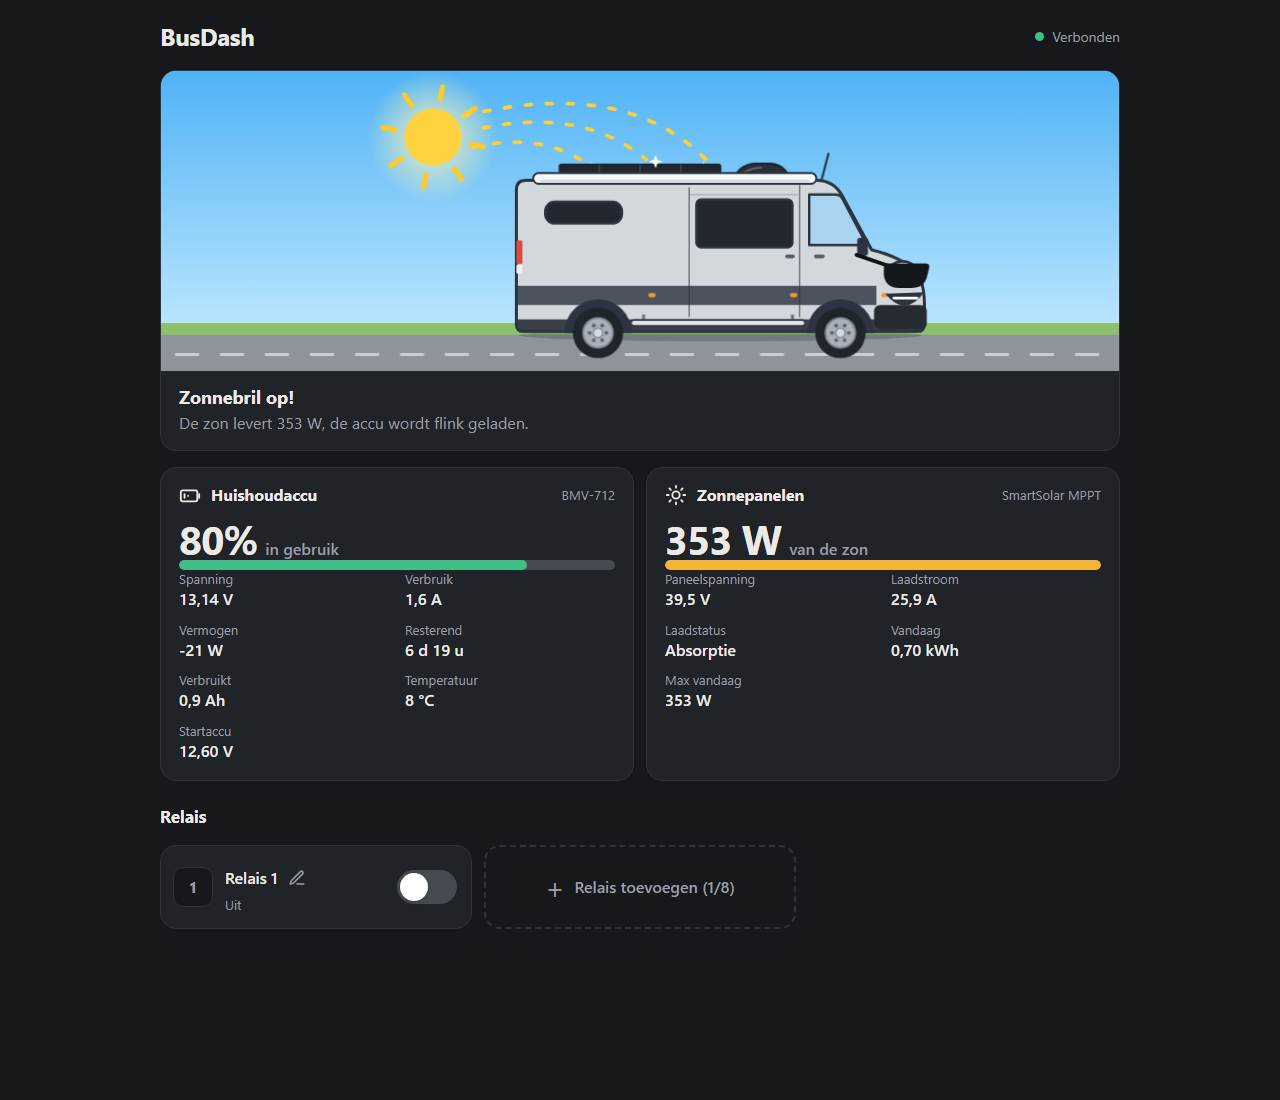
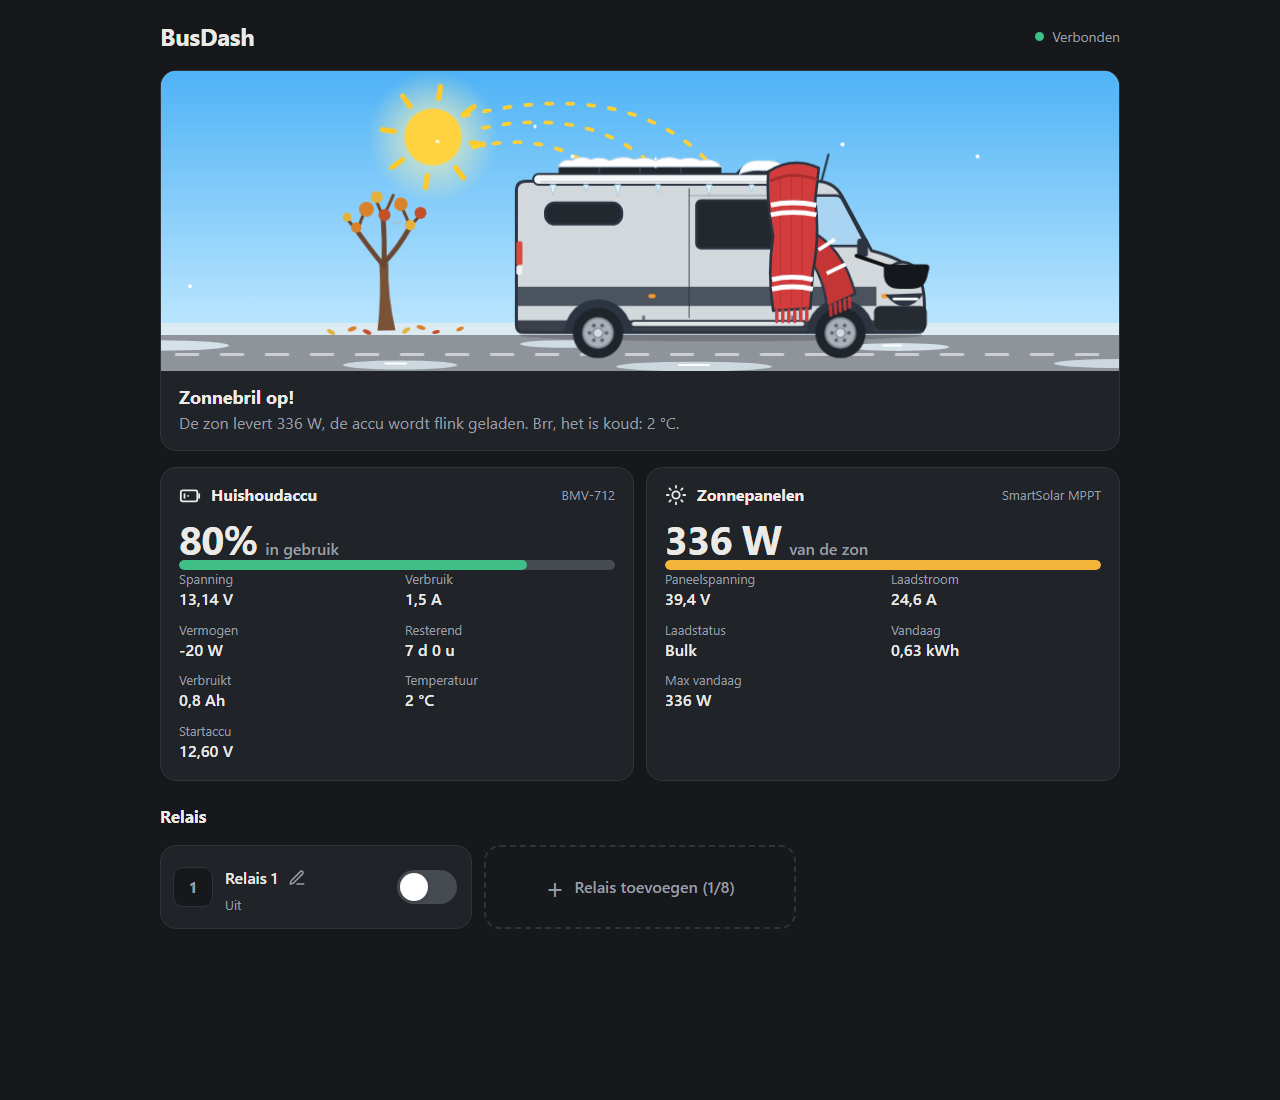
Bus krijgt het koud onder 3 °C en een boompje toont het seizoen
- Onder 3 °C (terug boven 4 °C): dikke sjaal over het dak, sneeuw, ijspegels, ijs op de weg en rillen.
- Boompje naast de bus: kaal, jong blad, volle kroon of vallend blad, naar de datum.
- Demo-parameters ?seizoen= en ?temp= in de adresbalk.
- Gesimuleerde temperatuur loopt mee met de versnelde dag.

diff --git a/src/main/resources/dashboard/index.html b/src/main/resources/dashboard/index.html
@@ -94,6 +94,44 @@
   .scene .grass { fill: #8cc06a; transition: fill .8s; }
   .scene[data-mood="sleeping"] .grass { fill: #2f4a3a; }
 
+  /* kou (onder 3 °C): ijs op de grond, sneeuw, ijspegels en een sjaal */
+  .scene .cold { opacity: 0; transition: opacity 1s ease; }
+  .scene[data-cold="true"] .cold { opacity: 1; }
+  .scene[data-cold="true"] .grass { fill: #dcebf2; }
+  .scene[data-cold="true"][data-mood="sleeping"] .grass { fill: #6f819b; }
+  .flake { animation: snow 7s linear infinite; }
+  .flake:nth-child(2n) { animation-duration: 9s; animation-delay: -3s; }
+  .flake:nth-child(3n) { animation-duration: 8s; animation-delay: -5.5s; }
+  @keyframes snow { from { transform: translate(0,-40px); } to { transform: translate(-14px,230px); } }
+  .scarf-flap { transform-box: fill-box; transform-origin: top left; animation: flap 2.6s ease-in-out infinite; }
+  @keyframes flap { 0%,100% { transform: rotate(-3deg); } 50% { transform: rotate(5deg); } }
+  .scene[data-cold="true"][data-mood="awake"] .bob { animation: shiver 3s linear infinite; }
+  @keyframes shiver {
+    0%,60%,100% { transform: translateX(0); }
+    63%,69%,75%,81% { transform: translateX(-.8px); }
+    66%,72%,78%,84% { transform: translateX(.8px); }
+  }
+
+  /* boompje: laat het seizoen zien */
+  .scene .s { opacity: 0; transition: opacity 1s ease; }
+  .scene[data-season="winter"] .s-winter,
+  .scene[data-season="spring"] .s-spring,
+  .scene[data-season="summer"] .s-summer,
+  .scene[data-season="autumn"] .s-autumn { opacity: 1; }
+  .tree { transition: filter .8s; }
+  .scene[data-mood="sleeping"] .tree { filter: brightness(.5) saturate(.7); }
+  .sway { transform-box: fill-box; transform-origin: bottom center; animation: sway 6s ease-in-out infinite; }
+  @keyframes sway { 0%,100% { transform: rotate(-1deg); } 50% { transform: rotate(1.2deg); } }
+  .leaf-fall { animation: leaffall 7s ease-in infinite; }
+  .leaf-fall.b { animation-delay: -3.5s; animation-duration: 8s; }
+  @keyframes leaffall {
+    0% { transform: translate(0,0) rotate(0); opacity: 0; }
+    10% { opacity: 1; }
+    50% { transform: translate(8px,34px) rotate(160deg); }
+    90% { opacity: 1; }
+    100% { transform: translate(-4px,66px) rotate(320deg); opacity: 0; }
+  }
+
   .bob { animation: bob 3.2s ease-in-out infinite; }
   .scene[data-mood="sunny"] .bob { animation: bounce 1.1s ease-in-out infinite; }
   .scene[data-mood="sleeping"] .bob { animation: breathe 4.5s ease-in-out infinite; }
@@ -145,6 +183,7 @@
   /* ---------- Accu en zon ---------- */
   .stats { display: grid; gap: 12px; grid-template-columns: 1fr 1fr; }
   @media (max-width: 639px) { .stats { grid-template-columns: 1fr; } }
+  @media (prefers-reduced-motion: reduce) { .scene * { animation: none !important; } }
   .stat { padding: 16px 18px 18px; display: grid; gap: 12px; align-content: start; }
   .stat-head { display: flex; align-items: center; gap: 10px; }
   .stat-head svg { width: 22px; height: 22px; flex: none; }
@@ -237,7 +276,7 @@
 
   <!-- ===================== De bus en zijn stemming ===================== -->
   <section class="card hero" aria-labelledby="mood-title">
-    <svg class="scene" id="scene" data-mood="awake" viewBox="0 0 400 200" preserveAspectRatio="xMidYMax meet" role="img" aria-labelledby="mood-title">
+    <svg class="scene" id="scene" data-mood="awake" data-cold="false" data-season="summer" viewBox="0 0 400 200" preserveAspectRatio="xMidYMax meet" role="img" aria-labelledby="mood-title">
       <defs>
         <linearGradient id="sky-sunny" gradientUnits="userSpaceOnUse" x1="0" y1="0" x2="0" y2="200"><stop offset="0" stop-color="#4fb3f6"/><stop offset="1" stop-color="#cdeeff"/></linearGradient>
         <linearGradient id="sky-awake" gradientUnits="userSpaceOnUse" x1="0" y1="0" x2="0" y2="200"><stop offset="0" stop-color="#9ebfd8"/><stop offset="1" stop-color="#e5edf2"/></linearGradient>
@@ -288,10 +327,88 @@
         <path class="beam" d="M82,30 Q190,4 244,59" style="animation-delay:-.8s"/>
       </g>
 
+      <!-- sneeuwvlokjes (koud) -->
+      <g class="cold" fill="#fff" opacity=".9">
+        <circle class="flake" cx="20" cy="10" r="1.6"/><circle class="flake" cx="70" cy="-10" r="1.2"/>
+        <circle class="flake" cx="110" cy="20" r="1.8"/><circle class="flake" cx="160" cy="0" r="1.3"/>
+        <circle class="flake" cx="205" cy="15" r="1.6"/><circle class="flake" cx="250" cy="-5" r="1.2"/>
+        <circle class="flake" cx="295" cy="12" r="1.8"/><circle class="flake" cx="340" cy="-8" r="1.4"/>
+        <circle class="flake" cx="385" cy="18" r="1.6"/><circle class="flake" cx="430" cy="0" r="1.3"/>
+        <circle class="flake" cx="-30" cy="5" r="1.5"/><circle class="flake" cx="-90" cy="-10" r="1.3"/>
+        <circle class="flake" cx="480" cy="10" r="1.6"/><circle class="flake" cx="135" cy="-20" r="1.1"/>
+      </g>
+
       <!-- grond -->
       <rect class="grass" x="-800" y="168" width="2000" height="10"/>
       <rect class="road" x="-800" y="176" width="2000" height="80"/>
       <path d="M-800,189 H1200" stroke="#fff" stroke-opacity=".55" stroke-width="2" stroke-dasharray="16 14"/>
+
+      <!-- ijs op de weg (alleen als het koud is) -->
+      <g class="cold" fill="#e6f4fb">
+        <ellipse cx="-120" cy="183" rx="46" ry="3.5" opacity=".8"/><ellipse cx="40" cy="196" rx="38" ry="3" opacity=".7"/>
+        <ellipse cx="150" cy="182" rx="30" ry="2.5" opacity=".75"/><ellipse cx="236" cy="197" rx="52" ry="3.2" opacity=".7"/>
+        <ellipse cx="372" cy="184" rx="34" ry="2.6" opacity=".8"/><ellipse cx="520" cy="195" rx="44" ry="3" opacity=".7"/>
+        <path d="M30,195 h14 M226,196 h20 M362,183 h12" stroke="#fff" stroke-width="1.2" stroke-linecap="round"/>
+      </g>
+
+      <!-- ===== Boompje links van de bus: kaal (winter), jong blad (lente), vol (zomer), verkleurd (herfst) ===== -->
+      <g class="tree">
+        <!-- afgevallen blad op het gras (herfst) -->
+        <g class="s s-autumn">
+          <ellipse cx="8" cy="172" rx="3" ry="1.4" fill="#d9822b" transform="rotate(-20 8 172)"/>
+          <ellipse cx="18" cy="174" rx="3" ry="1.4" fill="#c4502a" transform="rotate(25 18 174)"/>
+          <ellipse cx="44" cy="173" rx="3" ry="1.4" fill="#e3b23c" transform="rotate(-35 44 173)"/>
+          <ellipse cx="54" cy="171" rx="3" ry="1.4" fill="#d9822b" transform="rotate(15 54 171)"/>
+          <ellipse cx="64" cy="174" rx="2.6" ry="1.2" fill="#c4502a" transform="rotate(-10 64 174)"/>
+          <ellipse cx="-6" cy="174" rx="3" ry="1.4" fill="#e3b23c" transform="rotate(30 -6 174)"/>
+          <ellipse cx="80" cy="172" rx="2.6" ry="1.2" fill="#d9822b" transform="rotate(-25 80 172)"/>
+        </g>
+        <g class="sway">
+          <!-- stam en takken -->
+          <path d="M25,173 Q28,150 27,128 L33,128 Q32,150 37,173 Z" fill="#7a5235"/>
+          <g stroke="#6b4630" stroke-linecap="round" fill="none">
+            <path d="M30,130 Q22,120 13,107 M30,130 Q31,114 30,97 M30,128 Q40,118 48,104" stroke-width="3.2"/>
+            <path d="M13,107 L5,97 M13,107 Q15,98 19,92 M30,97 L25,85 M30,97 Q34,90 37,83 M48,104 L56,95 M48,104 Q45,96 42,90" stroke-width="2"/>
+          </g>
+          <!-- sneeuw op de takken (winter en koud) -->
+          <g class="cold"><g class="s s-winter" stroke="#fff" stroke-width="1.8" stroke-linecap="round" fill="none">
+            <path d="M14,105 Q21,115 28,122 M29,99 Q30,108 29,114 M47,103 Q40,112 33,119 M5,95 L11,102.5 M25,84 L27.5,91 M56,94 L50.5,100"/>
+          </g></g>
+          <!-- lente: jonge, lichte blaadjes en wat bloesem -->
+          <g class="s s-spring">
+            <g fill="#a9d96b">
+              <circle cx="5" cy="96" r="4"/><circle cx="19" cy="91" r="4.5"/><circle cx="12" cy="104" r="3.5"/>
+              <circle cx="25" cy="84" r="4.5"/><circle cx="37" cy="82" r="4"/><circle cx="31" cy="96" r="3.5"/>
+              <circle cx="56" cy="94" r="4"/><circle cx="42" cy="89" r="4.5"/><circle cx="48" cy="103" r="3.5"/>
+            </g>
+            <g fill="#f8c1d2">
+              <circle cx="8" cy="93" r="1.8"/><circle cx="22" cy="88" r="1.8"/><circle cx="34" cy="80" r="1.8"/>
+              <circle cx="45" cy="87" r="1.8"/><circle cx="58" cy="91" r="1.8"/><circle cx="29" cy="94" r="1.6"/>
+            </g>
+          </g>
+          <!-- zomer: volle, donkergroene kroon -->
+          <g class="s s-summer">
+            <g fill="#4c9a3a">
+              <circle cx="14" cy="104" r="14"/><circle cx="46" cy="102" r="14"/><circle cx="30" cy="88" r="17"/>
+              <circle cx="22" cy="116" r="10"/><circle cx="39" cy="116" r="10"/><circle cx="30" cy="104" r="15"/>
+            </g>
+            <g fill="#68b64f">
+              <circle cx="24" cy="82" r="8"/><circle cx="10" cy="99" r="6"/><circle cx="41" cy="95" r="7"/>
+            </g>
+          </g>
+          <!-- herfst: nog een paar verkleurde bladeren aan de boom -->
+          <g class="s s-autumn">
+            <g fill="#d9822b"><circle cx="19" cy="92" r="5"/><circle cx="42" cy="89" r="4.5"/><circle cx="12" cy="104" r="3.5"/></g>
+            <g fill="#c4502a"><circle cx="31" cy="96" r="4"/><circle cx="55" cy="95" r="4"/></g>
+            <g fill="#e3b23c"><circle cx="26" cy="84" r="4"/><circle cx="48" cy="103" r="3.5"/><circle cx="6" cy="97" r="3"/></g>
+          </g>
+        </g>
+        <!-- vallende blaadjes (herfst) -->
+        <g class="s s-autumn">
+          <ellipse class="leaf-fall" cx="40" cy="100" rx="2.8" ry="1.3" fill="#d9822b"/>
+          <ellipse class="leaf-fall b" cx="16" cy="98" rx="2.8" ry="1.3" fill="#c4502a"/>
+        </g>
+      </g>
 
       <!-- ===== Bus: zilveren Sprinter W906 hoge camperbus, zijaanzicht, neus rechts ===== -->
       <g transform="translate(116 37) scale(.8)">
@@ -324,6 +441,12 @@
           <!-- witte luifelcassette langs de dakrand -->
           <rect x="16" y="40" width="236" height="9" rx="4.5" fill="#f5f7f9" stroke="#2b3440" stroke-width="1.6"/>
           <path d="M22,46.5 H246" stroke="#c9d0d7" stroke-width="1.2"/>
+          <!-- koud: sneeuw op zonnepaneel en dakluik, ijspegels onder de luifel -->
+          <g class="cold">
+            <path d="M37,34 Q40,27 48,29 Q55,24 64,28 Q72,25 80,29 Q90,24 100,28 Q110,25 118,29 Q128,24 138,28 Q148,25 156,29 Q166,26 173,34 Z" fill="#fff" stroke="#c8dbe8" stroke-width="1"/>
+            <path d="M188,40 Q190,30 202,29 H213 Q225,30 228,40 Q220,36 208,37 Q196,36 188,40 Z" fill="#fff" stroke="#c8dbe8" stroke-width="1"/>
+            <path d="M30,49 l2.5,9 2.5,-9 Z M58,49 l2,6 2,-6 Z M84,49 l2.5,10 2.5,-10 Z M118,49 l2,7 2,-7 Z M160,49 l2.5,9 2.5,-9 Z M196,49 l2,6 2,-6 Z M226,49 l2.5,8 2.5,-8 Z" fill="#e3f3fc" stroke="#a9cde3" stroke-width=".8" stroke-linejoin="round"/>
+          </g>
           <!-- deuren: schuifdeur en bestuurdersdeur -->
           <path d="M146,52 V160 M238,50 V160" stroke="#2b3440" stroke-width="1.3" opacity=".55"/>
           <path d="M146,58 H236" stroke="#2b3440" stroke-width="1" opacity=".25"/>
@@ -382,6 +505,24 @@
           <circle cx="70" cy="172" r="21" fill="#20252c"/><circle cx="70" cy="172" r="12.5" fill="#a9b0b8" stroke="#7c848e" stroke-width="1.5"/><circle cx="77.0" cy="172.0" r="1.6" fill="#5c6470"/><circle cx="73.5" cy="178.1" r="1.6" fill="#5c6470"/><circle cx="66.5" cy="178.1" r="1.6" fill="#5c6470"/><circle cx="63.0" cy="172.0" r="1.6" fill="#5c6470"/><circle cx="66.5" cy="165.9" r="1.6" fill="#5c6470"/><circle cx="73.5" cy="165.9" r="1.6" fill="#5c6470"/><circle cx="70" cy="172" r="4" fill="#d5dade" stroke="#7c848e" stroke-width="1"/>
           <circle cx="272" cy="172" r="21" fill="#20252c"/><circle cx="272" cy="172" r="12.5" fill="#a9b0b8" stroke="#7c848e" stroke-width="1.5"/><circle cx="279.0" cy="172.0" r="1.6" fill="#5c6470"/><circle cx="275.5" cy="178.1" r="1.6" fill="#5c6470"/><circle cx="268.5" cy="178.1" r="1.6" fill="#5c6470"/><circle cx="265.0" cy="172.0" r="1.6" fill="#5c6470"/><circle cx="268.5" cy="165.9" r="1.6" fill="#5c6470"/><circle cx="275.5" cy="165.9" r="1.6" fill="#5c6470"/><circle cx="272" cy="172" r="4" fill="#d5dade" stroke="#7c848e" stroke-width="1"/>
         </g>
+
+        <!-- koud: dikke rood-witte sjaal over het dak, tussen schuifdeur en bestuurdersdeur naar beneden
+             (staat na de wielen, zodat hij over de wielkast heen valt; beweegt mee met de bus) -->
+        <g class="bob"><g class="cold" stroke-linejoin="round">
+          <!-- tweede slip: hangt schuin naar voren over de bestuurdersdeur en wappert -->
+          <g class="scarf-flap">
+            <path d="M244,86 Q274,102 282,142 L258,152 Q256,120 236,100 Z" fill="#c43636" stroke="#2b3440" stroke-width="2"/>
+            <path d="M253,104 L267,96 M259,124 L275,117" stroke="#fff" stroke-width="3.2"/>
+            <path d="M261,151 v8 M265,149.5 v8 M269,148 v8 M273,146.5 v8 M277,145 v8" stroke="#c43636" stroke-width="2.6" stroke-linecap="round"/>
+          </g>
+          <!-- hoofdbaan: over het dak en recht naar beneden, lekker dik en een beetje golvend -->
+          <path d="M212,38 Q232,25 254,35 L251,62 Q255,92 249,122 L247,152 L216,154 Q211,122 216,92 Q210,62 212,38 Z" fill="#d23c3c" stroke="#2b3440" stroke-width="2.2"/>
+          <path d="M213,46 Q232,37 253,45" fill="none" stroke="#a82c2c" stroke-width="2.2"/>
+          <path d="M222,44 V148 M231,41 V150 M240,42 V150" stroke="#b83030" stroke-width="1.2" opacity=".6"/>
+          <path d="M214,66 Q232,62 252,66 M214,74 Q232,70 252,74 M215,128 Q232,124 249,128 M215,136 Q232,132 249,136" fill="none" stroke="#fff" stroke-width="4"/>
+          <!-- franjes -->
+          <path d="M219,154 v9 M224,154 v9 M229,154 v9 M234,154 v9 M239,153 v9 M244,153 v9" stroke="#d23c3c" stroke-width="2.8" stroke-linecap="round"/>
+        </g></g>
 
         <!-- Zzz -->
         <g class="m m-sleeping" fill="#e9eefb" font-family="system-ui, sans-serif" font-weight="800">
@@ -483,6 +624,30 @@
     }
   };
 
+  // Kou: onder 3 °C krijgt de bus het koud, pas vanaf 4 °C weer niet (zodat hij rond 3 °C niet
+  // steeds wisselt). Zonder temperatuurmeting is het nooit koud.
+  const COLD_BELOW = 3, WARM_FROM = 4;
+  let cold = false;
+  function isCold(temp, wasCold) {
+    if (temp === null || temp === undefined) return false;
+    return wasCold ? temp < WARM_FROM : temp < COLD_BELOW;
+  }
+
+  // Seizoen voor het boompje (meteorologisch, noordelijk halfrond): dec-feb winter, mrt-mei lente,
+  // jun-aug zomer, sep-nov herfst.
+  function season(date) {
+    return ['winter', 'winter', 'spring', 'spring', 'spring', 'summer',
+            'summer', 'summer', 'autumn', 'autumn', 'autumn', 'winter'][date.getMonth()];
+  }
+  // Voor een demonstratie: ?seizoen=winter|lente|zomer|herfst en/of ?temp=-2 in de adresbalk.
+  const params = new URLSearchParams(location.search);
+  const seasonNames = { winter: 'winter', lente: 'spring', zomer: 'summer', herfst: 'autumn' };
+  const demoSeason = seasonNames[params.get('seizoen')] || null;
+  const demoTemp = params.has('temp') && isFinite(parseFloat(params.get('temp'))) ? parseFloat(params.get('temp')) : null;
+  function updateSeason() { scene.dataset.season = demoSeason || season(new Date()); }
+  updateSeason();
+  setInterval(updateSeason, 60 * 60 * 1000);
+
   function row(label, value) {
     return el('div', {}, el('dt', { textContent: label }), el('dd', { textContent: value, title: value }));
   }
@@ -542,9 +707,13 @@
       const s = await api('status');
       setOnline(true);
       scene.dataset.mood = s.mood;
+      if (demoTemp !== null && s.battery) s.battery.temperature = demoTemp;
+      const temp = s.battery ? s.battery.temperature : null;
+      cold = isCold(temp, cold);
+      scene.dataset.cold = cold;
       const [title, text] = (moods[s.mood] || moods.awake)(s);
       $('mood-title').textContent = title;
-      $('mood-text').textContent = text;
+      $('mood-text').textContent = cold ? text + ' Brr, het is koud: ' + num(temp, 0) + ' °C.' : text;
       renderBattery(s);
       renderSolar(s);
       $('logout').hidden = !s.user;

diff --git a/src/main/java/nl/chortzadarra/busdash/edge/battery/FakeBatteryMonitor.java b/src/main/java/nl/chortzadarra/busdash/edge/battery/FakeBatteryMonitor.java
@@ -5,9 +5,13 @@ import java.time.Duration;
 import java.time.Instant;
 import java.util.Optional;
 
+import nl.chortzadarra.busdash.edge.solar.FakeSolarCharger;
+
 /**
  * Gesimuleerde accu voor ontwikkelen op je laptop: langzaam ontladen met een
- * schommelende stroom, zodat je dashboard iets te laten zien heeft.
+ * schommelende stroom, zodat je dashboard iets te laten zien heeft. De temperatuur loopt mee
+ * met de versnelde dag van {@link nl.chortzadarra.busdash.edge.solar.FakeSolarCharger}: rond
+ * het middaguur 11 °C, 's nachts tot -1 °C (zodat je de bus het koud ziet krijgen).
  */
 public final class FakeBatteryMonitor implements BatteryMonitor {
 
@@ -41,11 +45,13 @@ public final class FakeBatteryMonitor implements BatteryMonitor {
         double consumedAh = -seconds / 3600.0 * 3.0 * 60;           // versneld: 1 s = 1 min
         double soc = Math.max(0, 80.0 + consumedAh / CAPACITY_AH * 100);
         double voltage = 12.9 + (soc - 50) * 0.008;
+        double dayFraction = seconds / FakeSolarCharger.DAY_LENGTH.toSeconds() % 1.0;
+        double temperature = Math.round(5.0 + 6.0 * Math.cos(2 * Math.PI * (dayFraction - 0.6)));
 
         return Optional.of(new BatteryReading(
                 now, voltage, current, (int) Math.round(voltage * current),
                 soc, consumedAh, (int) (soc / 100 * CAPACITY_AH / Math.abs(current) * 60),
-                8.0, 12.6));
+                temperature, 12.6));
     }
 
     @Override

diff --git a/README.md b/README.md
@@ -7,7 +7,13 @@ relaisbord en laat alles zien op één webpagina die op telefoon en computer wer
 ![Dashboard](docs/dashboard-desktop.png)
 
 De cartoonbus laat in één oogopslag zien hoe het ervoor staat: **zonnebril op** als de panelen flink
-leveren, **slapend** 's nachts en **wakker** als er weinig gebeurt.
+leveren, **slapend** 's nachts en **wakker** als er weinig gebeurt. Zakt de temperatuur onder 3 °C,
+dan krijgt hij **een sjaal om**, ligt er ijs op de weg en sneeuw op het dak. Het **boompje** ernaast
+laat het seizoen zien: kaal in de winter, jong blad en bloesem in de lente, een volle kroon in de zomer
+en vallend blad in de herfst.
+
+Voor een demonstratie kun je seizoen en temperatuur in de adresbalk vastzetten, bijvoorbeeld
+`http://localhost:8080/?seizoen=winter&temp=-2` (seizoenen: `winter`, `lente`, `zomer`, `herfst`).
 
 ## Wat het doet
 - **Accu (Victron BMV-712):** laadpercentage, spanning, stroom, vermogen, resterende tijd, verbruikte Ah,
@@ -44,12 +50,13 @@ flowchart LR
   één jar die op de Pi alleen een JRE nodig heeft.
 - **Alle hardware achter een interface,** elk met een gesimuleerde variant. Met `--fake` draait de hele
   app op een laptop zonder Pi of Victron-apparatuur. Een gesimuleerde dag duurt drie minuten, zodat je
-  alle stemmingen van de bus voorbij ziet komen.
+  alle stemmingen van de bus voorbij ziet komen, inclusief een koude nacht.
 - **Robuust tegen de echte wereld.** De parser controleert de checksum van elk blok en gooit kapotte data
   weg. Valt een kabel weg, dan blijft de app opnieuw verbinden (wachttijd oplopend van 2 naar 30 s).
   Is een meting ouder dan 10 seconden, dan toont het dashboard "Geen actuele gegevens" in plaats van een
   oude waarde.
-- **Hysterese in de stemming,** zodat de bus bij een voorbijtrekkend wolkje niet steeds wisselt.
+- **Hysterese in de stemming en de kou,** zodat de bus bij een voorbijtrekkend wolkje of rond de
+  3 °C niet steeds wisselt.
 - **Veilig standaardgedrag.** Wachtwoorden worden als PBKDF2-hash opgeslagen. De sessiecookie is
   `HttpOnly` en `SameSite=Strict` en wordt `Secure` achter HTTPS. Schrijvende API-aanroepen vereisen een
   eigen header tegen CSRF. Na 10 foute pogingen binnen 15 minuten wordt een adres 5 minuten geblokkeerd.
